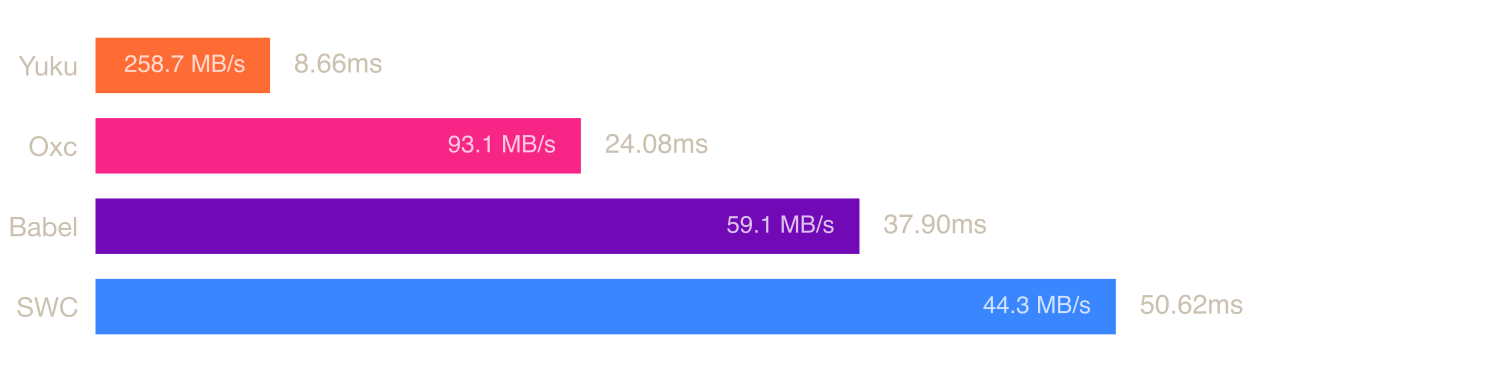
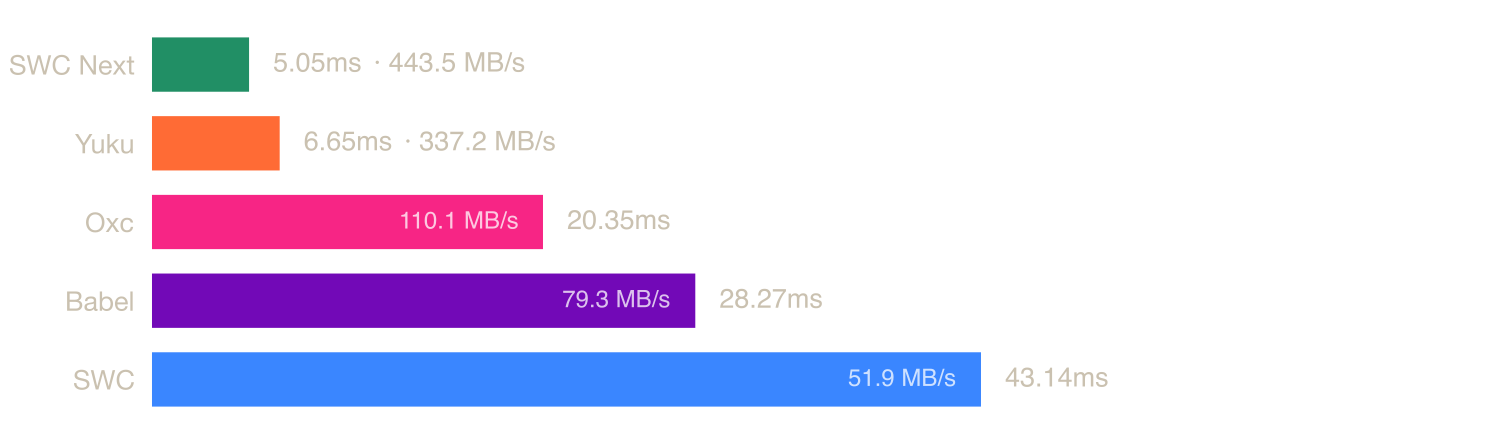
bench: refresh results after upstream rebase

Changed region(s): [[0.0, 0.0591, 0.828, 0.9167]]

diff --git a/README.md b/README.md
@@ -7,9 +7,9 @@ Benchmarks for ECMAScript parsers available as npm packages, including pure Java
 | Property | Value |
 |----------|-------|
 | OS | macOS 25.6.0 (arm64) |
-| CPU | Apple M3 |
-| Cores | 8 |
-| Memory | 16 GB |
+| CPU | Apple M5 Max |
+| Cores | 18 |
+| Memory | 64 GB |
 
 ## Parsers
 
@@ -33,6 +33,10 @@ An extensible Rust-based platform for compiling and bundling JavaScript and Type
 
 A high-performance & spec-compliant JavaScript/TypeScript compiler written in Zig.
 
+### [SWC Next](https://github.com/swc-project/swc-next)
+
+The next-generation SWC JavaScript and TypeScript parser.
+
 ## Benchmarks
 
 ### [typescript.js](https://raw.githubusercontent.com/yuku-toolchain/parser-benchmark-files/refs/heads/main/typescript.js)
@@ -43,11 +47,12 @@ A high-performance & spec-compliant JavaScript/TypeScript compiler written in Zi
 
 | Parser | Median | RME | Mean | Min | Max | Ops/sec | Relative |
 |--------|--------|-----|------|-----|-----|---------|----------|
-| **Yuku** | **42.67 ms** | **±0.90%** | **43.25 ms** | **39.90 ms** | **104.48 ms** | **23.44 ops/s** | **baseline** |
-| Acorn | 142.74 ms | ±2.92% | 146.52 ms | 127.31 ms | 276.63 ms | 7.01 ops/s | 3.35× slower |
-| Babel | 173.73 ms | ±5.11% | 183.17 ms | 134.40 ms | 416.32 ms | 5.76 ops/s | 4.07× slower |
-| Oxc | 218.35 ms | ±1.67% | 224.04 ms | 205.26 ms | 373.63 ms | 4.58 ops/s | 5.12× slower |
-| SWC | 433.36 ms | ±3.73% | 440.36 ms | 371.84 ms | 1316.07 ms | 2.31 ops/s | 10.16× slower |
+| **SWC Next** | **31.53 ms** | **±0.63%** | **31.52 ms** | **27.78 ms** | **59.29 ms** | **31.71 ops/s** | **baseline** |
+| Yuku | 34.52 ms | ±0.50% | 34.97 ms | 32.60 ms | 42.02 ms | 28.97 ops/s | 1.09× slower |
+| Acorn | 105.02 ms | ±0.96% | 104.55 ms | 90.05 ms | 119.46 ms | 9.52 ops/s | 3.33× slower |
+| Babel | 124.93 ms | ±2.53% | 126.46 ms | 101.63 ms | 178.15 ms | 8.00 ops/s | 3.96× slower |
+| Oxc | 170.72 ms | ±0.83% | 171.84 ms | 165.39 ms | 202.92 ms | 5.86 ops/s | 5.41× slower |
+| SWC | 313.67 ms | ±0.68% | 314.39 ms | 302.34 ms | 347.49 ms | 3.19 ops/s | 9.95× slower |
 
 ### [checker.ts](https://raw.githubusercontent.com/yuku-toolchain/parser-benchmark-files/refs/heads/main/checker.ts)
 
@@ -57,10 +62,11 @@ A high-performance & spec-compliant JavaScript/TypeScript compiler written in Zi
 
 | Parser | Median | RME | Mean | Min | Max | Ops/sec | Relative |
 |--------|--------|-----|------|-----|-----|---------|----------|
-| **Yuku** | **16.15 ms** | **±1.12%** | **16.60 ms** | **14.63 ms** | **55.30 ms** | **61.93 ops/s** | **baseline** |
-| Oxc | 62.78 ms | ±1.07% | 64.33 ms | 60.55 ms | 115.69 ms | 15.93 ops/s | 3.89× slower |
-| Babel | 66.34 ms | ±1.38% | 66.74 ms | 52.88 ms | 114.67 ms | 15.07 ops/s | 4.11× slower |
-| SWC | 123.45 ms | ±1.11% | 126.84 ms | 118.83 ms | 179.16 ms | 8.10 ops/s | 7.65× slower |
+| **SWC Next** | **12.17 ms** | **±0.69%** | **12.45 ms** | **10.78 ms** | **20.95 ms** | **82.16 ops/s** | **baseline** |
+| Yuku | 13.55 ms | ±0.60% | 13.81 ms | 12.19 ms | 19.86 ms | 73.80 ops/s | 1.11× slower |
+| Oxc | 52.43 ms | ±0.37% | 52.97 ms | 51.08 ms | 62.69 ms | 19.07 ops/s | 4.31× slower |
+| Babel | 52.97 ms | ±1.22% | 53.33 ms | 42.44 ms | 64.66 ms | 18.88 ops/s | 4.35× slower |
+| SWC | 103.98 ms | ±0.56% | 104.79 ms | 100.97 ms | 130.25 ms | 9.62 ops/s | 8.54× slower |
 | Acorn | Failed to parse | - | - | - | - | - | - |
 
 ### [lib.dom.d.ts](https://raw.githubusercontent.com/yuku-toolchain/parser-benchmark-files/refs/heads/main/lib.dom.d.ts)
@@ -71,10 +77,11 @@ A high-performance & spec-compliant JavaScript/TypeScript compiler written in Zi
 
 | Parser | Median | RME | Mean | Min | Max | Ops/sec | Relative |
 |--------|--------|-----|------|-----|-----|---------|----------|
-| **Yuku** | **8.66 ms** | **±0.77%** | **8.73 ms** | **7.62 ms** | **48.86 ms** | **115.47 ops/s** | **baseline** |
-| Oxc | 24.08 ms | ±0.75% | 24.41 ms | 22.88 ms | 55.53 ms | 41.53 ops/s | 2.78× slower |
-| Babel | 37.90 ms | ±1.32% | 38.60 ms | 30.87 ms | 73.67 ms | 26.39 ops/s | 4.38× slower |
-| SWC | 50.62 ms | ±0.74% | 50.91 ms | 48.80 ms | 89.26 ms | 19.76 ops/s | 5.84× slower |
+| **SWC Next** | **5.05 ms** | **±0.57%** | **4.99 ms** | **3.96 ms** | **18.27 ms** | **197.95 ops/s** | **baseline** |
+| Yuku | 6.65 ms | ±0.50% | 6.64 ms | 5.70 ms | 11.47 ms | 150.49 ops/s | 1.32× slower |
+| Oxc | 20.35 ms | ±0.49% | 20.55 ms | 18.92 ms | 30.64 ms | 49.15 ops/s | 4.03× slower |
+| Babel | 28.27 ms | ±0.96% | 28.33 ms | 23.48 ms | 45.28 ms | 35.37 ops/s | 5.60× slower |
+| SWC | 43.14 ms | ±0.28% | 43.36 ms | 42.07 ms | 50.65 ms | 23.18 ops/s | 8.54× slower |
 | Acorn | Failed to parse | - | - | - | - | - | - |
 
 ### [react.js](https://raw.githubusercontent.com/yuku-toolchain/parser-benchmark-files/refs/heads/main/react.js)
@@ -85,11 +92,12 @@ A high-performance & spec-compliant JavaScript/TypeScript compiler written in Zi
 
 | Parser | Median | RME | Mean | Min | Max | Ops/sec | Relative |
 |--------|--------|-----|------|-----|-----|---------|----------|
-| **Yuku** | **0.28 ms** | **±0.51%** | **0.33 ms** | **0.26 ms** | **15.58 ms** | **3593.35 ops/s** | **baseline** |
-| Acorn | 0.86 ms | ±0.46% | 0.91 ms | 0.79 ms | 17.66 ms | 1167.20 ops/s | 3.08× slower |
-| Babel | 1.12 ms | ±0.89% | 1.28 ms | 0.90 ms | 30.19 ms | 892.66 ops/s | 4.03× slower |
-| Oxc | 1.13 ms | ±0.58% | 1.22 ms | 1.08 ms | 20.31 ms | 888.56 ops/s | 4.04× slower |
-| SWC | 2.12 ms | ±0.47% | 2.22 ms | 2.05 ms | 36.86 ms | 472.41 ops/s | 7.61× slower |
+| **SWC Next** | **0.19 ms** | **±0.81%** | **0.27 ms** | **0.16 ms** | **8.98 ms** | **5381.15 ops/s** | **baseline** |
+| Yuku | 0.23 ms | ±0.60% | 0.29 ms | 0.21 ms | 2.22 ms | 4367.61 ops/s | 1.23× slower |
+| Acorn | 0.65 ms | ±0.42% | 0.71 ms | 0.58 ms | 2.54 ms | 1535.61 ops/s | 3.50× slower |
+| Babel | 0.89 ms | ±0.74% | 1.02 ms | 0.67 ms | 3.91 ms | 1129.46 ops/s | 4.76× slower |
+| Oxc | 0.96 ms | ±0.39% | 1.04 ms | 0.90 ms | 8.10 ms | 1041.40 ops/s | 5.17× slower |
+| SWC | 1.91 ms | ±0.37% | 2.04 ms | 1.80 ms | 4.39 ms | 522.86 ops/s | 10.29× slower |
 
 ## Run Benchmarks
 
@@ -134,7 +142,7 @@ Each parser is benchmarked using [Tinybench](https://github.com/tinylibs/tinyben
 
 To keep results stable and fair, every parser × file combination runs in its own freshly spawned process, so JIT state and GC pressure from one parser never affect another. Each combination is benchmarked in multiple independent runs (3 by default), and the reported median is the median across those runs, a statistic that is robust to GC pauses, OS scheduling blips, and other outliers. The RME column shows the relative margin of error (99% confidence) within a run. Differences between parsers smaller than their combined margins should be treated as noise.
 
-Native parsers (Oxc, SWC, Yuku) run through their respective NAPI bindings, so measured time includes the binding overhead. Pure JS parsers (Acorn, Babel) run directly in the JavaScript runtime.
+Native parsers (Oxc, SWC, SWC Next, Yuku) run through their respective NAPI bindings, so measured time includes the binding overhead. Pure JS parsers (Acorn, Babel) run directly in the JavaScript runtime. SWC Next uses `@swc-next/parser` and reads `result.program` to include full JavaScript AST decoding.
 
 `lib.dom.d.ts` is a global declaration script with no imports or exports. SWC parses it as a script rather than a module, because its npm binding otherwise rejects the file's `...arguments` parameter names under module strict mode.
 
